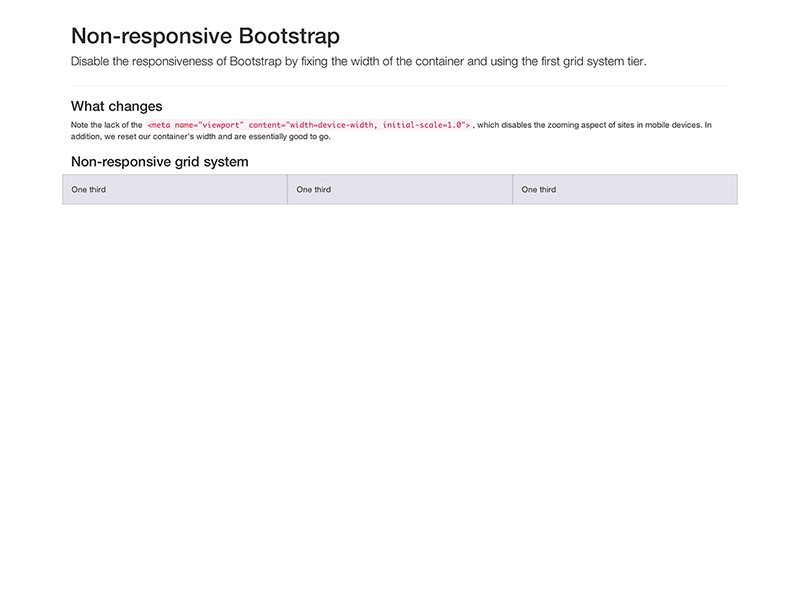
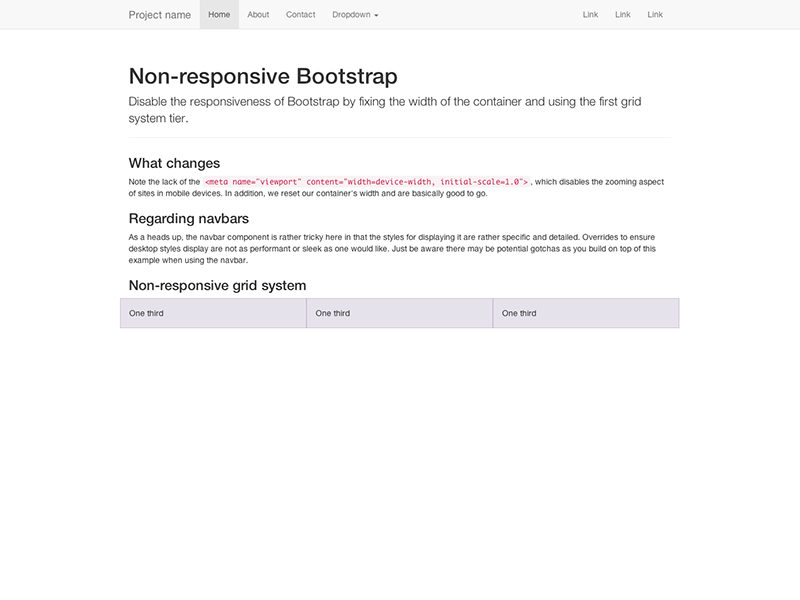
update examples to BS3 latest

Changed region(s): [[0.0625, 0.0, 0.9375, 0.57], [0.8125, 0.0, 0.8438, 0.03], [0.7188, 0.0, 0.75, 0.03]]

diff --git a/examples/non-responsive/index.html b/examples/non-responsive/index.html
@@ -25,6 +25,45 @@
   </head>
 
   <body>
+
+    <!-- Fixed navbar -->
+    <div class="navbar navbar-default navbar-fixed-top">
+      <div class="container">
+        <div class="navbar-header">
+          <button type="button" class="navbar-toggle" data-toggle="collapse" data-target=".navbar-collapse">
+            <span class="icon-bar"></span>
+            <span class="icon-bar"></span>
+            <span class="icon-bar"></span>
+          </button>
+          <a class="navbar-brand" href="#">Project name</a>
+        </div>
+        <div class="navbar-collapse collapse">
+          <ul class="nav navbar-nav">
+            <li class="active"><a href="#">Home</a></li>
+            <li><a href="#about">About</a></li>
+            <li><a href="#contact">Contact</a></li>
+            <li class="dropdown">
+              <a href="#" class="dropdown-toggle" data-toggle="dropdown">Dropdown <b class="caret"></b></a>
+              <ul class="dropdown-menu">
+                <li><a href="#">Action</a></li>
+                <li><a href="#">Another action</a></li>
+                <li><a href="#">Something else here</a></li>
+                <li class="divider"></li>
+                <li class="dropdown-header">Nav header</li>
+                <li><a href="#">Separated link</a></li>
+                <li><a href="#">One more separated link</a></li>
+              </ul>
+            </li>
+          </ul>
+          <ul class="nav navbar-nav navbar-right">
+            <li><a href="#">Link</a></li>
+            <li><a href="#">Link</a></li>
+            <li><a href="#">Link</a></li>
+          </ul>
+        </div><!--/.nav-collapse -->
+      </div>
+    </div>
+
     <div class="container">
 
       <div class="page-header">
@@ -34,6 +73,9 @@
 
       <h3>What changes</h3>
       <p>Note the lack of the <code>&lt;meta name="viewport" content="width=device-width, initial-scale=1.0"&gt;</code>, which disables the zooming aspect of sites in mobile devices. In addition, we reset our container's width and are basically good to go.</p>
+
+      <h3>Regarding navbars</h3>
+      <p>As a heads up, the navbar component is rather tricky here in that the styles for displaying it are rather specific and detailed. Overrides to ensure desktop styles display are not as performant or sleek as one would like. Just be aware there may be potential gotchas as you build on top of this example when using the navbar.</p>
 
       <h3>Non-responsive grid system</h3>
       <div class="row">
@@ -48,5 +90,7 @@
     <!-- Bootstrap core JavaScript
     ================================================== -->
     <!-- Placed at the end of the document so the pages load faster -->
+    <script src="../../assets/js/jquery.js"></script>
+    <script src="../../dist/js/bootstrap.min.js"></script>
   </body>
 </html>

diff --git a/examples/non-responsive/non-responsive.css b/examples/non-responsive/non-responsive.css
@@ -1,8 +1,38 @@
+
+/* Template-specific stuff
+ *
+ * Customizations just for the template—these are not necessary for anything
+ * with disabling the responsiveness.
+ */
+
+/* Account for fixed navbar */
+body {
+  padding-top: 70px;
+  padding-bottom: 30px;
+}
+
+/* Finesse the page header spacing */
+.page-header {
+  margin-bottom: 30px;
+}
+.page-header .lead {
+  margin-bottom: 10px;
+}
+
+
+/* Non-responsive overrides
+ *
+ * Utilitze the following CSS to disable the responsive-ness of the container,
+ * grid system, and navbar.
+ */
+
+/* Reset the container */
 .container {
   max-width: none !important;
   width: 970px;
 }
 
+/* Demonstrate the grids */
 .col-xs-4 {
   padding-top: 15px;
   padding-bottom: 15px;
@@ -10,4 +40,78 @@
   border: 1px solid #ddd;
   background-color: rgba(86,61,124,.15);
   border: 1px solid rgba(86,61,124,.2);
+}
+
+.container .navbar-header,
+.container .navbar-collapse {
+  margin-right: 0;
+  margin-left: 0;
+}
+
+/* Always float the navbar header */
+.navbar-header {
+  float: left;
+}
+
+/* Undo the collapsing navbar */
+.navbar-collapse {
+  display: block !important;
+  height: auto !important;
+  padding-bottom: 0;
+  overflow: visible !important;
+}
+
+.navbar-toggle {
+  display: none;
+}
+
+.navbar-brand {
+  margin-left: -15px;
+}
+
+/* Always apply the floated nav */
+.navbar-nav {
+  float: left;
+  margin: 0;
+}
+.navbar-nav > li {
+  float: left;
+}
+.navbar-nav > li > a {
+  padding: 15px;
+}
+
+/* Redeclare since we override the float above */
+.navbar-nav.navbar-right {
+  float: right;
+}
+
+/* Undo custom dropdowns */
+.navbar .open .dropdown-menu {
+  position: absolute;
+  float: left;
+  background-color: #fff;
+  border: 1px solid #cccccc;
+  border: 1px solid rgba(0, 0, 0, 0.15);
+  border-width: 0 1px 1px;
+  border-radius: 0 0 4px 4px;
+  -webkit-box-shadow: 0 6px 12px rgba(0, 0, 0, 0.175);
+          box-shadow: 0 6px 12px rgba(0, 0, 0, 0.175);
+}
+.navbar .open .dropdown-menu > li > a {
+  color: #333;
+}
+.navbar .open .dropdown-menu > li > a:hover,
+.navbar .open .dropdown-menu > li > a:focus,
+.navbar .open .dropdown-menu > .active > a,
+.navbar .open .dropdown-menu > .active > a:hover,
+.navbar .open .dropdown-menu > .active > a:focus {
+  color: #fff !important;
+  background-color: #428bca !important;
+}
+.navbar .open .dropdown-menu > .disabled > a,
+.navbar .open .dropdown-menu > .disabled > a:hover,
+.navbar .open .dropdown-menu > .disabled > a:focus {
+  color: #999 !important;
+  background-color: transparent !important;
 }

diff --git a/examples/theme/index.html b/examples/theme/index.html
@@ -219,14 +219,14 @@
       <div class="page-header">
         <h1>Alerts</h1>
       </div>
-      <div class="alert">
-        <strong>Warning!</strong> Best check yo self, you're not looking too good.
-      </div>
       <div class="alert alert-success">
         <strong>Well done!</strong> You successfully read this important alert message.
       </div>
       <div class="alert alert-info">
         <strong>Heads up!</strong> This alert needs your attention, but it's not super important.
+      </div>
+      <div class="alert alert-warning">
+        <strong>Warning!</strong> Best check yo self, you're not looking too good.
       </div>
       <div class="alert alert-danger">
         <strong>Oh snap!</strong> Change a few things up and try submitting again.
@@ -309,7 +309,7 @@
       </div>
       <div class="row">
         <div class="col-sm-4">
-          <div class="panel">
+          <div class="panel panel-default">
             <div class="panel-heading">
               <h3 class="panel-title">Panel title</h3>
             </div>

diff --git a/examples/carousel/carousel.css b/examples/carousel/carousel.css
@@ -19,7 +19,6 @@ body {
 }
 
 
-
 /* CUSTOMIZE THE CAROUSEL
 -------------------------------------------------- */
 
@@ -38,6 +37,7 @@ body {
 /* Declare heights because of positioning of img element */
 .carousel .item {
   height: 500px;
+  background-color: #777;
 }
 .carousel-inner > .item > img {
   position: absolute;
@@ -93,7 +93,7 @@ body {
 
 @media (min-width: 768px) {
 
-  /* Remve the edge padding needed for mobile */
+  /* Remove the edge padding needed for mobile */
   .marketing {
     padding-left: 0;
     padding-right: 0;

diff --git a/examples/jumbotron-narrow/jumbotron-narrow.css b/examples/jumbotron-narrow/jumbotron-narrow.css
@@ -4,7 +4,7 @@ body {
   padding-bottom: 20px;
 }
 
-/* Everything but the jumbotron gets side spacing for mobile-first views */
+/* Everything but the jumbotron gets side spacing for mobile first views */
 .header,
 .marketing,
 .footer {

diff --git a/examples/justified-nav/justified-nav.css b/examples/justified-nav/justified-nav.css
@@ -76,8 +76,6 @@ body {
   }
 }
 
-
-
 /* Responsive: Portrait tablets and up */
 @media screen and (min-width: 768px) {
   /* Remove the padding we set earlier */
